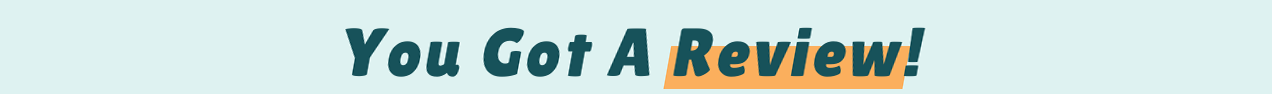
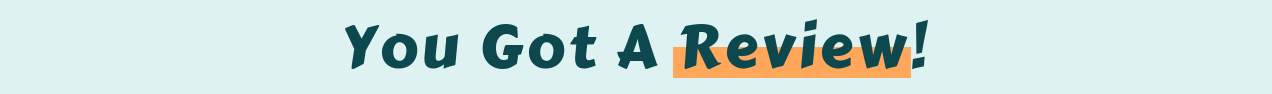
Review email heading: Carter One, matching the other email headings

Changed region(s): [[0.2453, 0.2128, 0.7358, 0.9574]]

diff --git a/apps/api/email-templates/html/ReviewTemplates/GuestNameWroteAReview.html b/apps/api/email-templates/html/ReviewTemplates/GuestNameWroteAReview.html
@@ -246,7 +246,7 @@
         <td class="row" align="center" valign="top" style="padding: 0 50px;">
             
             <a href target="_self" style="text-decoration: none;">
-                <img src="https://app.rentyourride.ca/email/review-heading.png" class="img" width="540" alt="You Got A Review!" style="display: block;" border="0">
+                <img src="https://app.rentyourride.ca/email/review-heading.png?v=2" class="img" width="540" alt="You Got A Review!" style="display: block;" border="0">
             </a>
             
         </td>

diff --git a/apps/api/email-templates/html/ReviewTemplates/HostWroteYouAReview.html b/apps/api/email-templates/html/ReviewTemplates/HostWroteYouAReview.html
@@ -246,7 +246,7 @@
         <td class="row" align="center" valign="top" style="padding: 0 50px;">
             
             <a href target="_self" style="text-decoration: none;">
-                <img src="https://app.rentyourride.ca/email/review-heading.png" class="img" width="540" alt="You Got A Review!" style="display: block;" border="0">
+                <img src="https://app.rentyourride.ca/email/review-heading.png?v=2" class="img" width="540" alt="You Got A Review!" style="display: block;" border="0">
             </a>
             
         </td>

diff --git a/apps/api/scripts/make-email-heading.py b/apps/api/scripts/make-email-heading.py
@@ -1,19 +1,23 @@
-import sys
+import os
 from PIL import Image, ImageDraw, ImageFont
-def make(pre, word, post, out, S=2, track=1.6):
-    W,H=636*S,47*S
-    BG=(222,242,241,255); TXT=(23,82,90,255); HL=(251,175,93,255)
-    font=ImageFont.truetype('/tmp/hb/LilitaOne.ttf',34*S)
-    def w(t): return sum(font.getlength(c) for c in t)+track*S*len(t)
-    total=w(pre)+w(word)+w(post)
-    pad=40*S
-    canvas=Image.new('RGBA',(W+2*pad,H),BG); d=ImageDraw.Draw(canvas)
-    asc,_=font.getmetrics(); y=(H-asc)/2 - 1*S
-    x=(W+2*pad-total)/2; xw=x+w(pre)
-    d.rectangle([xw-2*S, y+asc*0.52, xw+w(word)+2*S, H-3*S], fill=HL)
-    for c in pre+word+post:
-        d.text((x,y),c,font=font,fill=TXT); x+=font.getlength(c)+track*S
-    sh=0.18
-    img=canvas.transform(canvas.size, Image.AFFINE,(1,sh,-sh*H/2,0,1,0),resample=Image.BICUBIC,fillcolor=BG).crop((pad,0,pad+W,H))
-    img.convert('RGB').save(out, optimize=True)
-make('You Got A ','Review','!','/tmp/hb/review-heading.png')
+
+FONT = os.path.expanduser('~/Library/Fonts/CarterOne-Regular.ttf')
+OUT_DIR = os.path.join(os.path.dirname(__file__), '../../web/public/email')
+
+
+def make(pre, word, post, out, S=2, size=30, track=1.9):
+    W, H = 636 * S, 47 * S
+    BG = (222, 242, 241); TXT = (14, 72, 79); HL = (255, 167, 91)
+    font = ImageFont.truetype(FONT, size * S)
+    def w(t): return sum(font.getlength(c) + track * S for c in t)
+    img = Image.new('RGB', (W, H), BG); d = ImageDraw.Draw(img)
+    top, bottom = font.getbbox('R')[1], font.getbbox('R')[3]
+    y = (H - (bottom - top)) / 2 - top
+    x = (W - w(pre + word + post)) / 2; xw = x + w(pre)
+    d.rectangle([xw - 2 * S, y + top + (bottom - top) * 0.5, xw + w(word) - track * S + 2 * S, y + bottom + 4 * S], fill=HL)
+    for c in pre + word + post:
+        d.text((x, y), c, font=font, fill=TXT); x += font.getlength(c) + track * S
+    img.save(out, optimize=True)
+
+
+make('You Got A ', 'Review', '!', os.path.join(OUT_DIR, 'review-heading.png'))
